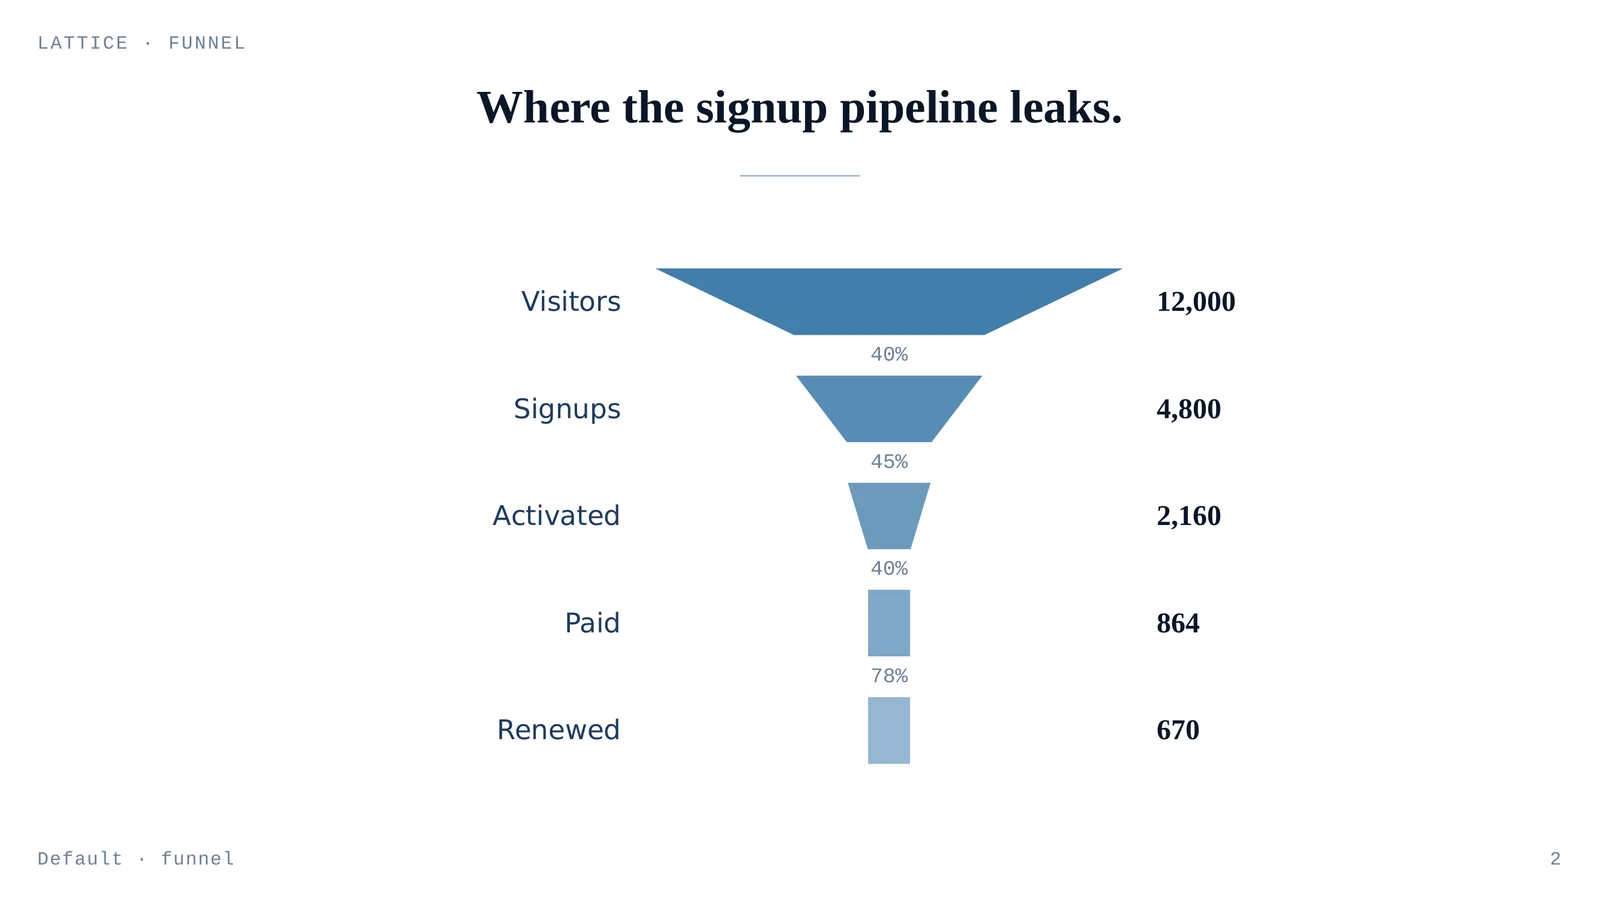
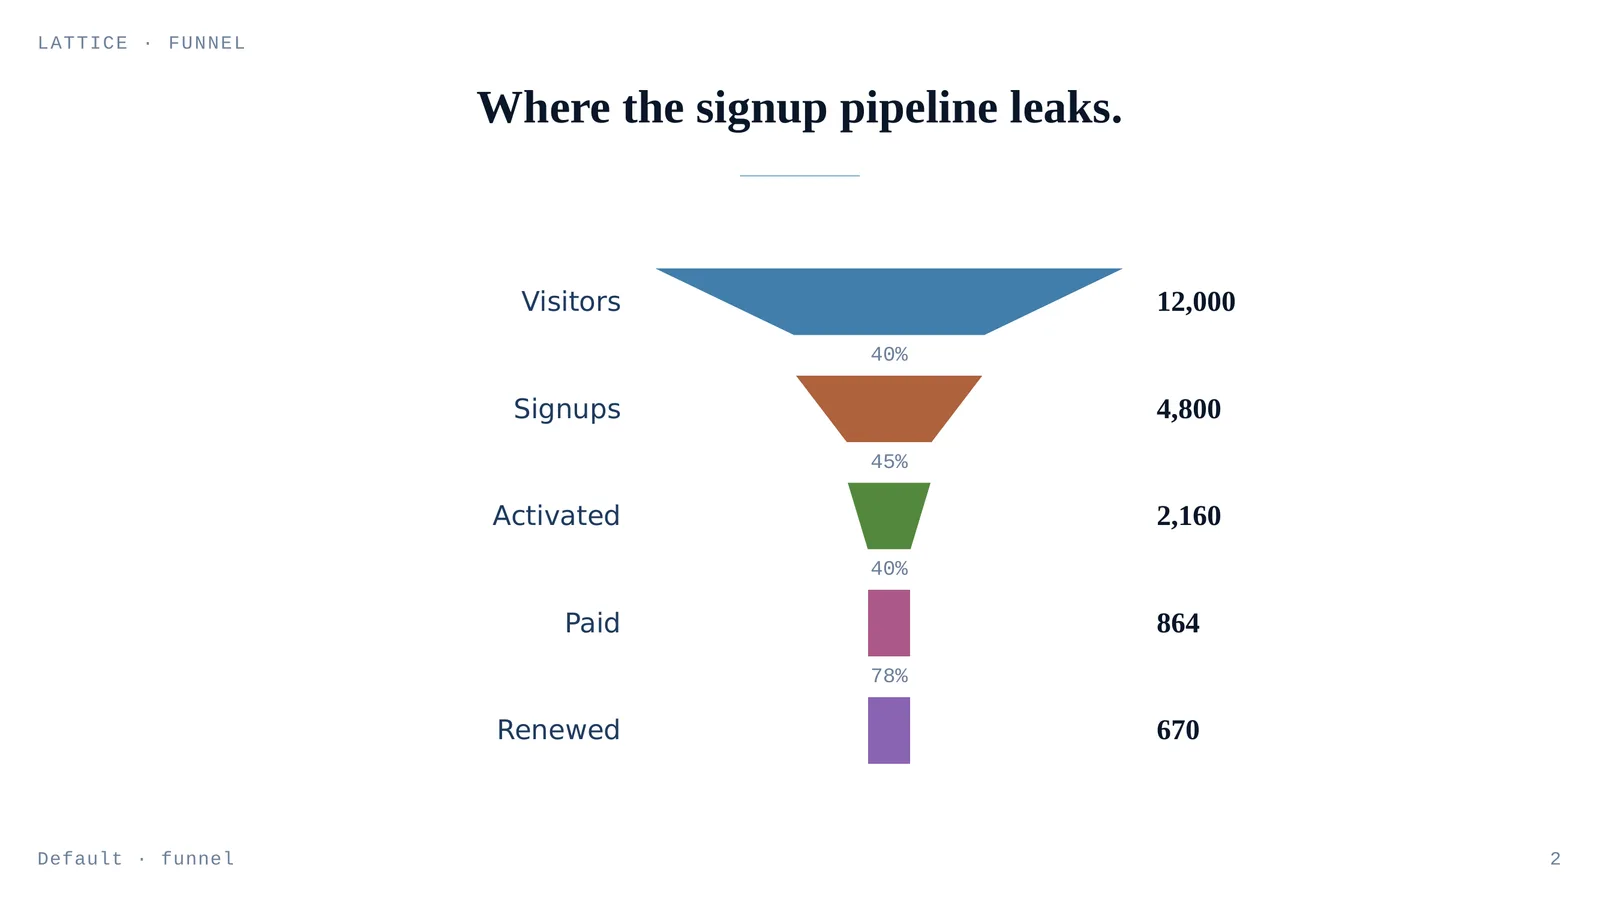
fix(funnel+docs): per-stage chart-palette colour + playground asset cache-busting (#112)

diff --git a/lib/components/chart/funnel/funnel.styles.css b/lib/components/chart/funnel/funnel.styles.css
@@ -21,14 +21,30 @@ section.funnel .funnel-svg {
   display: block;
 }
 
-/* Bands — one accent hue narrowing top-to-bottom; the ramp steps lighter per
- * stage so the stack reads as one flow, not unrelated categories. A hairline
- * canvas-coloured stroke keeps adjacent bands crisp. */
+/* Bands — one distinct hue per stage, rotating the categorical chart palette
+ * exactly like the piechart wedges, so a stage reads as its own colour. This
+ * is the "on-brand" palette: themes curate --chart-catN (cuoio's earth
+ * pigments, etc.), so the rotation greens/browns/etc. per theme rather than
+ * sitting on a fixed blue. Vivid solid (mix toward --bg for body, the same
+ * 82% richness the pie legend swatch uses), six-hue cap (Wong 2011) matching
+ * PIE_PALETTE. Labels + values sit on the canvas, never on a band, so the fill
+ * never affects text contrast. A hairline canvas-coloured stroke keeps adjacent
+ * bands crisp.
+ *
+ * :nth-of-type counts <polygon> siblings — every band is a polygon and the only
+ * polygons in the figure, so the count tracks stage order. (Same rotation idiom
+ * as piechart.styles.css; see the gotchas note on nth-of-type vs nth-child.) */
 section.funnel .funnel-band {
-  fill: color-mix(in oklab, var(--cat1-hue) calc(82% - var(--i, 0) * 9%), var(--bg));
+  fill: color-mix(in oklab, var(--cat1-hue) 82%, var(--bg));
   stroke: var(--bg);
   stroke-width: 0.75;
 }
+section.funnel .funnel-band:nth-of-type(6n + 1) { fill: color-mix(in oklab, var(--cat1-hue) 82%, var(--bg)); }
+section.funnel .funnel-band:nth-of-type(6n + 2) { fill: color-mix(in oklab, var(--cat2-hue) 82%, var(--bg)); }
+section.funnel .funnel-band:nth-of-type(6n + 3) { fill: color-mix(in oklab, var(--cat3-hue) 82%, var(--bg)); }
+section.funnel .funnel-band:nth-of-type(6n + 4) { fill: color-mix(in oklab, var(--cat4-hue) 82%, var(--bg)); }
+section.funnel .funnel-band:nth-of-type(6n + 5) { fill: color-mix(in oklab, var(--cat5-hue) 82%, var(--bg)); }
+section.funnel .funnel-band:nth-of-type(6n + 6) { fill: color-mix(in oklab, var(--cat6-hue) 82%, var(--bg)); }
 
 /* Stage label — left column, right-aligned to the band. */
 section.funnel .funnel-label {

diff --git a/CHANGELOG.md b/CHANGELOG.md
@@ -247,10 +247,14 @@ in patch versions.
   pipeline. Author one li per stage in flow order with a trailing inline-code
   value (`- Signups \`4,800\``); the kernel draws centred trapezoid bands
   (width ∝ value), flanks each with its label and value, and prints the
-  stage-to-stage conversion % in the gaps. New chart-family kernel module
-  (`funnel.transform.js`) wired through the single dispatcher, so it reaches
-  all three render paths via the registry with no per-renderer code. Demo
-  deck: `examples/funnel.md`.
+  stage-to-stage conversion % in the gaps. Each stage takes a distinct hue
+  from the categorical chart palette, rotating `--catN` exactly like the
+  piechart wedges — so the colours are on-brand per theme (cuoio's curated
+  earth pigments, etc.) and a funnel reads like the rest of the chart family.
+  Labels and values sit on the canvas, so the fills never affect text contrast.
+  New chart-family kernel module (`funnel.transform.js`) wired through the
+  single dispatcher, so it reaches all three render paths via the registry with
+  no per-renderer code. Demo deck: `examples/funnel.md`.
 - **`pricing` component — plan tiers with prices, feature checklists, and one
   recommended column** (`comparison · grid · structure`). The plans / packages
   slide for commercial (sales, product launch), membership / fundraising